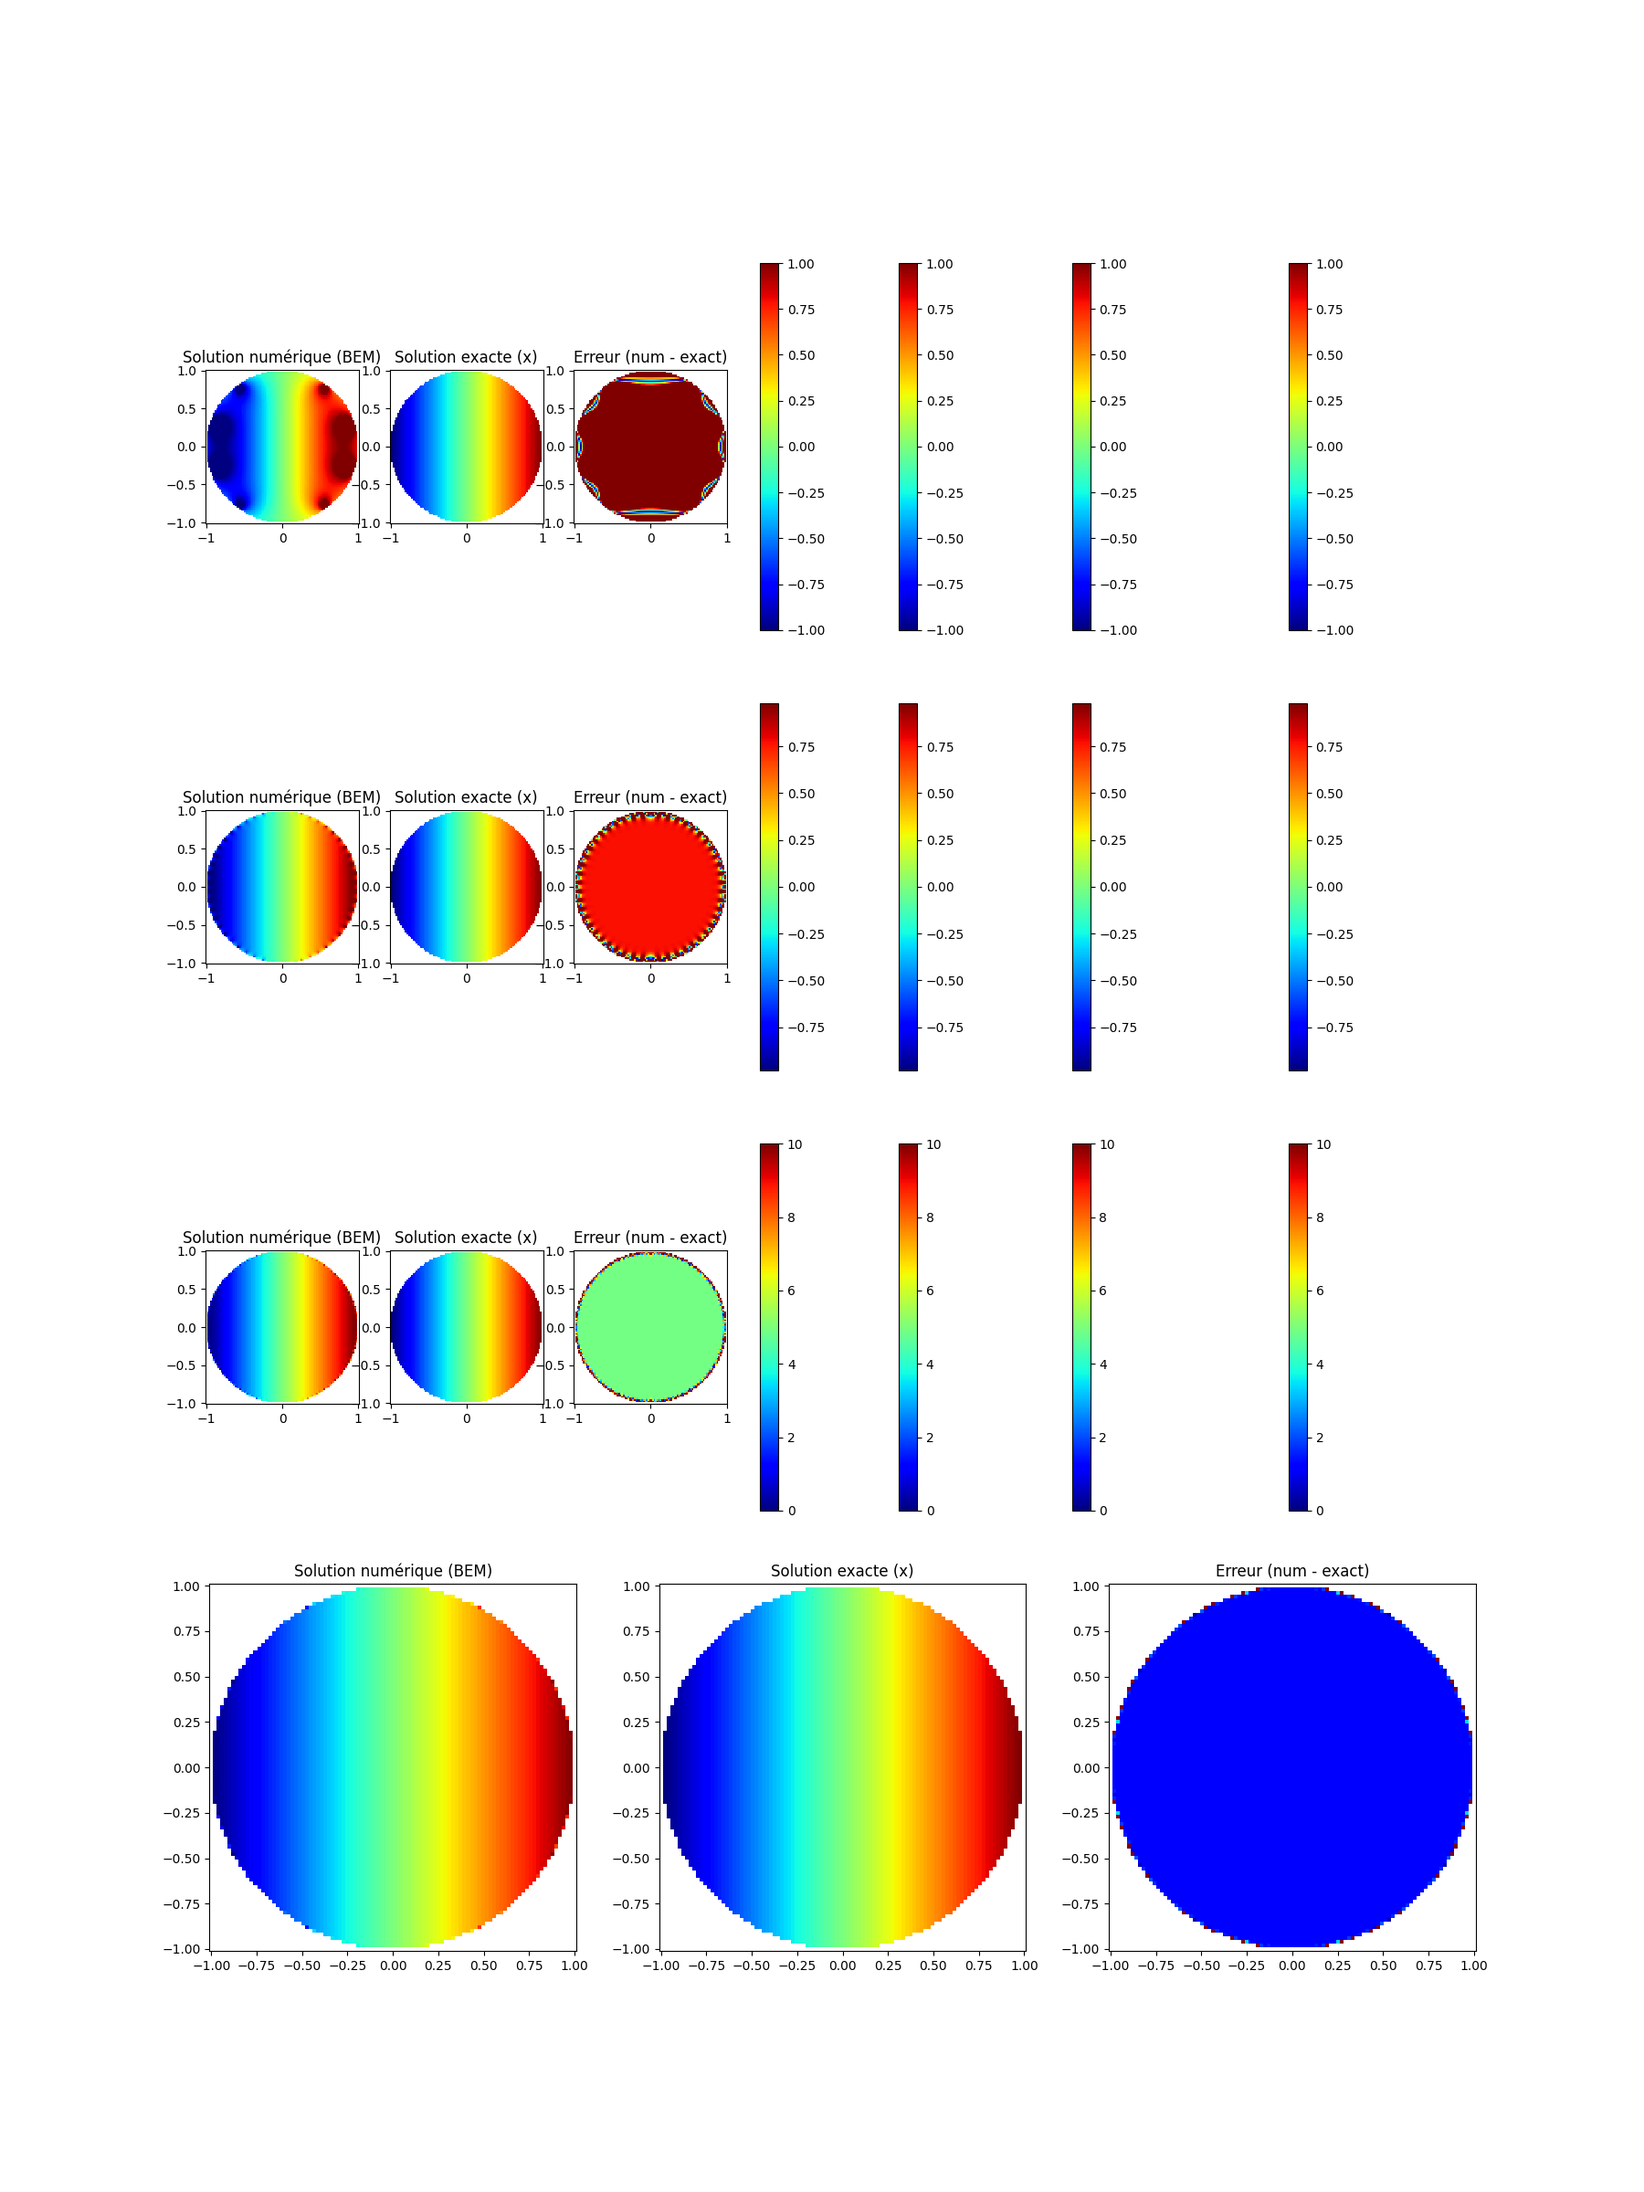
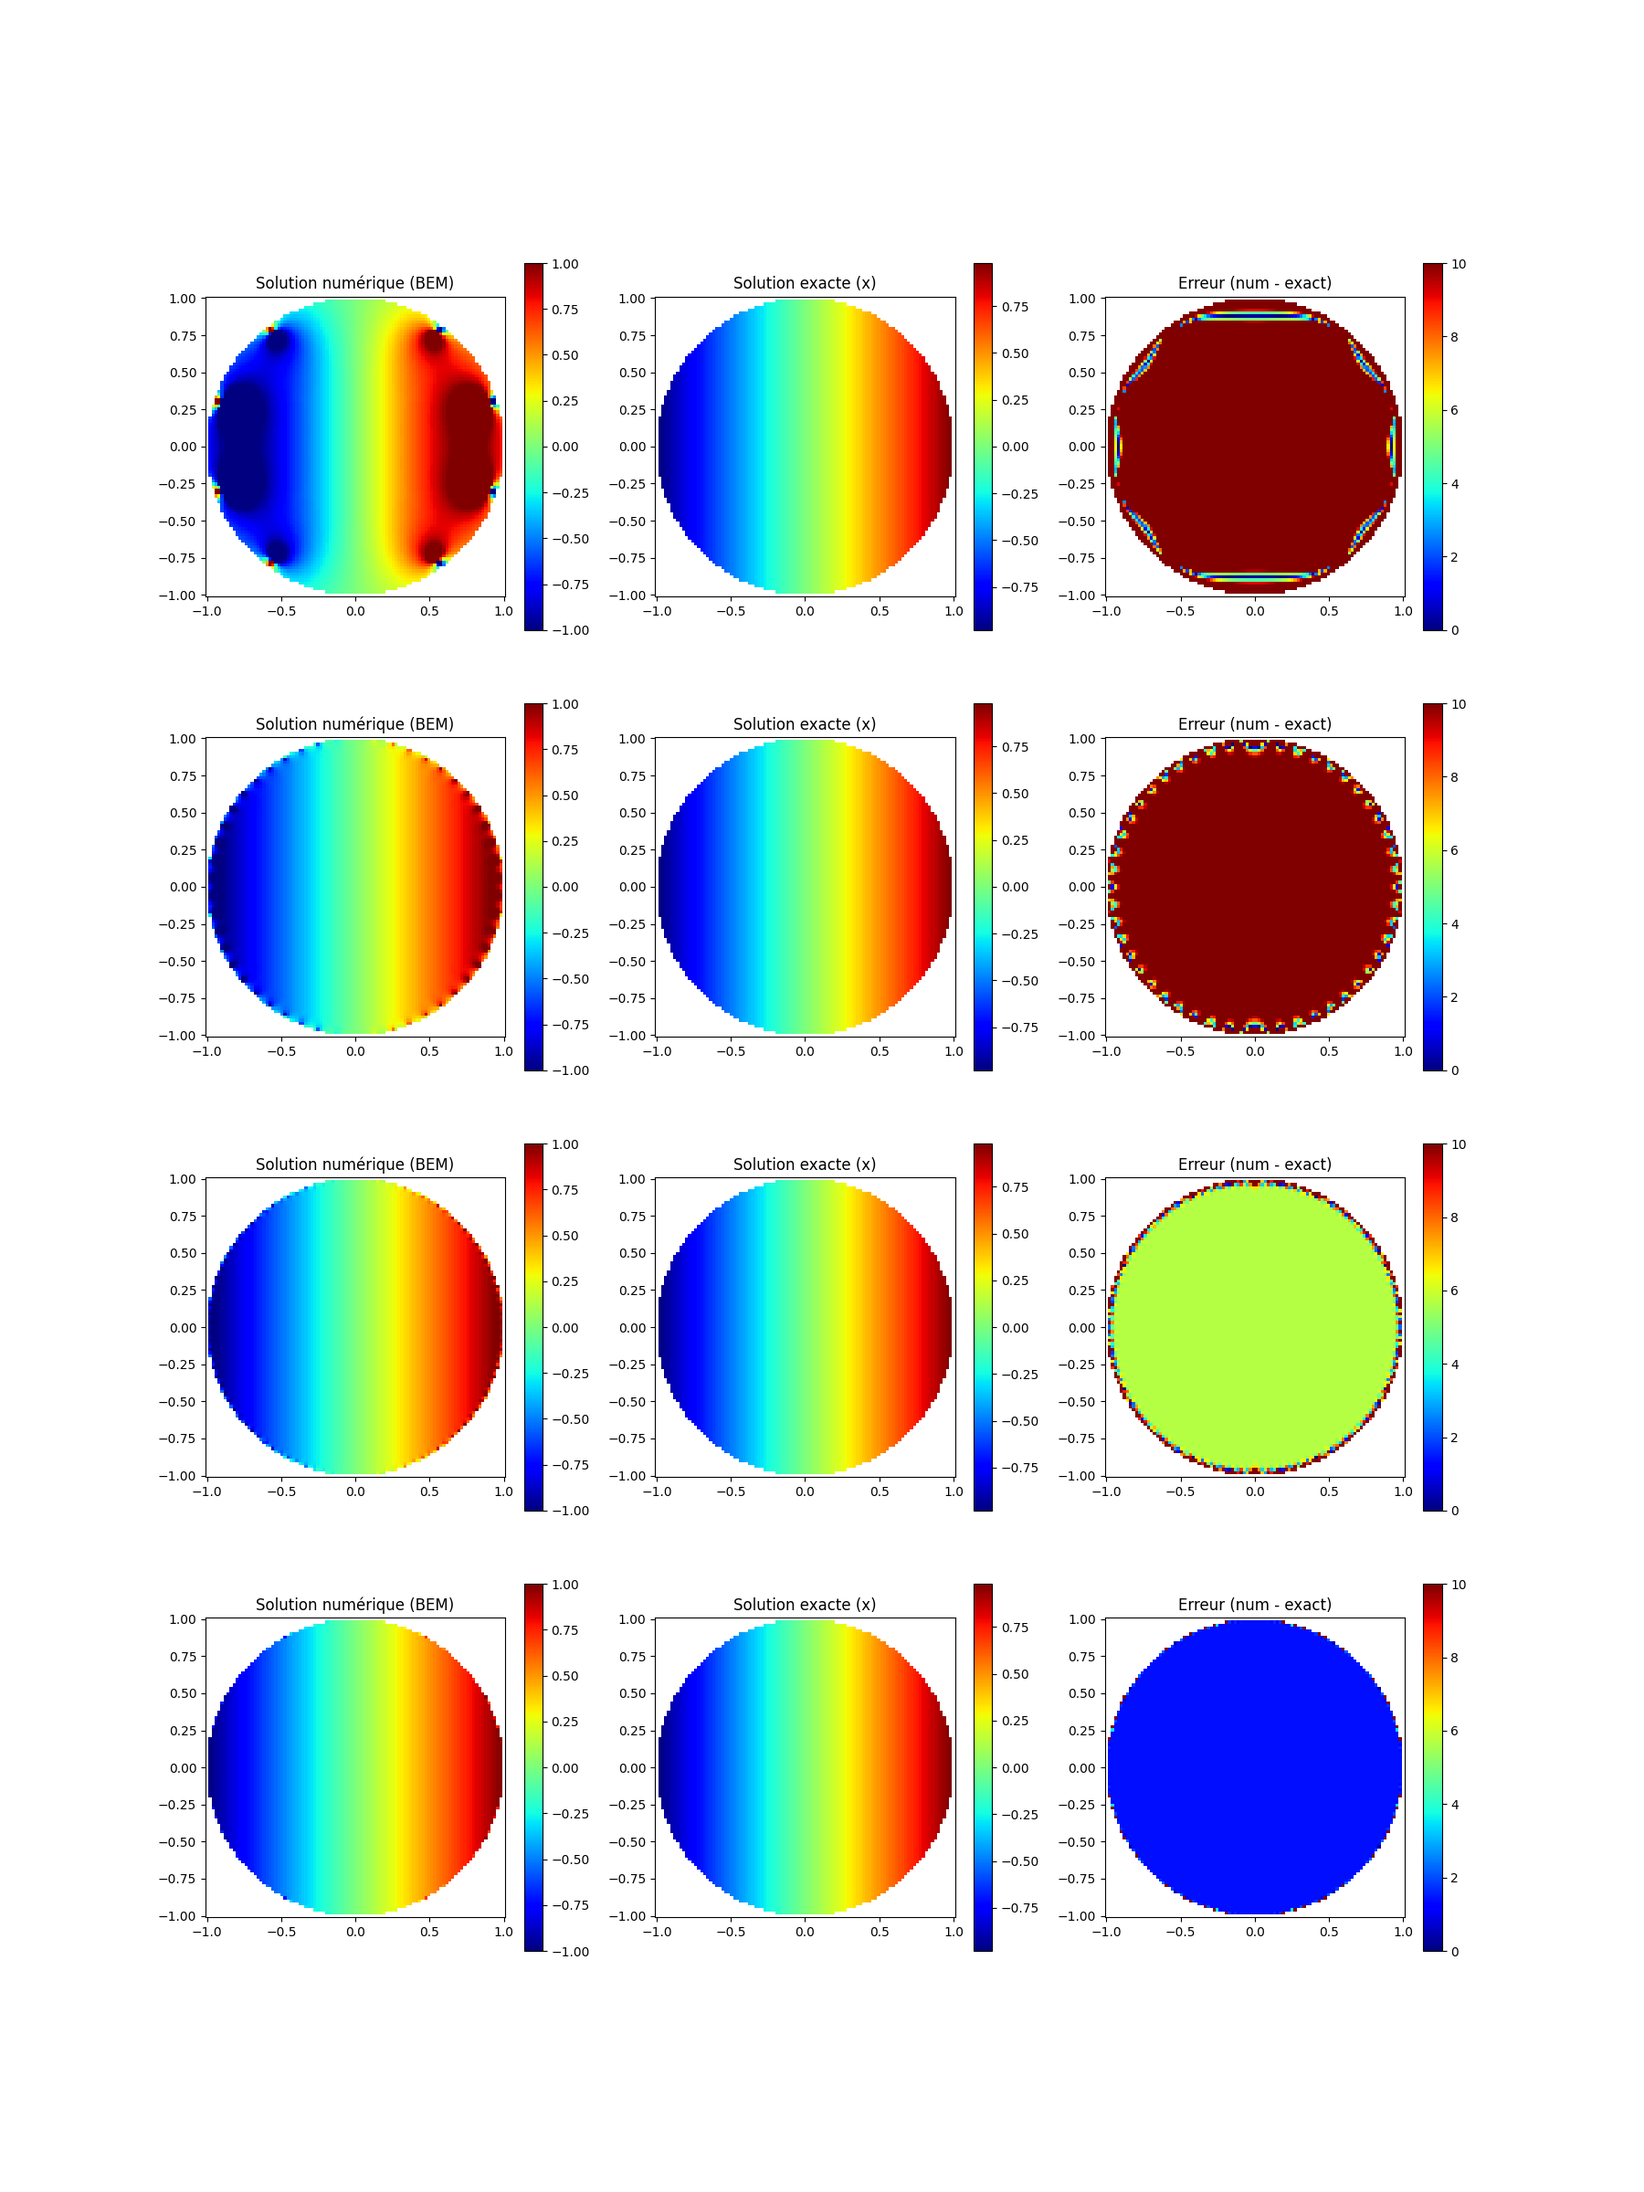
New test cases: * ring in linear potential * square in linear potential

diff --git a/square/main.py b/square/main.py
@@ -74,33 +74,34 @@ def gauss_legendre_1D(n):
 
     return x, w
 
-def build_circle_geometry(N, radius):
+def build_geometry(N, a):
     """
     Construit un maillage de N points sur le cercle de rayon 'radius'.
     Retourne:
-      coords : tableau (N,2) contenant les coordonnées (x_j,y_j) du bord
-      normals: tableau (N,2) contenant la normale sortante en (x_j,y_j)
+      elems : tableau (N,6) contenant les coordonnées (x_1,y_1,x_2,y_2,x_m,y_m)
+      normals: tableau (N,2) contenant la normale sortante en (x_m,y_m)
       ds     : la longueur d'arc (constante) d'un segment (élément)
     """
     elems = np.zeros((N, 6))
     normals = np.zeros((N, 2))
 
-    dtheta = 2.0*np.pi/N
-    for j in range(N):
-        theta1 = dtheta*j
-        theta2 = dtheta*(j+1)
-        xj = radius * np.cos(theta1)
-        yj = radius * np.sin(theta1)
-        xjp1 = radius * np.cos(theta2)
-        yjp1 = radius * np.sin(theta2)
-        xm = 0.5*(xj + xjp1)
-        ym = 0.5*(yj + yjp1)
-        elems[j,:] = [xj, yj, xjp1, yjp1, xm, ym]
+    Na = int(N/4)
+    dN = a/Na
+
+    for j in range(Na):
+        # bord bas
+        elems[j+0*Na,:] = [dN*j, 0.0, dN*(j+1), 0.0, (dN*j+dN*(j+1))*0.5, 0.0]
+        elems[j+1*Na,:] = [1.0, dN*j, 1.0, dN*(j+1), 1.0, (dN*j+dN*(j+1))*0.5]
+        elems[j+2*Na,:] = [1.0-dN*j, 1.0, 1.0-dN*(j+1), 1.0, 1.0-(dN*j+dN*(j+1))*0.5, 1.0]
+        elems[j+3*Na,:] = [0.0, 1.0-dN*j, 0.0, 1.0-dN*(j+1), 0.0, 1.0-(dN*j+dN*(j+1))*0.5]
         # Normale sortante (pour un cercle centré à l'origine)
-        normals[j,:] = [np.cos(theta1*0.5+theta2*0.5), np.sin(theta1*0.5+theta2*0.5)]
+        normals[j+0*Na,:] = [0.0, -1.0]
+        normals[j+1*Na,:] = [1.0, 0.0]
+        normals[j+2*Na,:] = [0.0, 1.0]
+        normals[j+3*Na,:] = [-1.0, 0.0]
 
     # Longueur d’arc approximative par élément
-    ds = radius * dtheta
+    ds = dN
 
     return elems, normals, ds
 
@@ -161,6 +162,8 @@ def build_matrices_gauss(elems, normals, gauss_order=8):
                 # Point d'intégration s(t)
                 s_t = x_m + 0.5*xi*vecAB   # vecteur 2D
 
+                # Normale entrante
+
                 # Valeurs de la fonction de Green et sa dérivée normale
                 g_val = G_2D(xm1, s_t)
                 dg_val = dGdn_2D(xm1, s_t, n_seg)
@@ -172,6 +175,11 @@ def build_matrices_gauss(elems, normals, gauss_order=8):
 
             G[j,k] = sum_g * (0.5 * Lk)
             H[j,k] = sum_h * (0.5 * Lk)
+
+            if j == k:
+                G[j,k] = 0.0
+                H[j,k] = 0.0
+                continue
 
     return G, H
 
@@ -188,9 +196,9 @@ def solve_laplace_dirichlet_bem(N):
       phi_bd : la condition de Dirichlet imposée (phi_j = x_j)
     """
     # 1) Géométrie
-    rad = 1.0
+    a = 1.0
 
-    elems, normals, ds = build_circle_geometry(N, rad)
+    elems, normals, ds = build_geometry(N, a)
 
     # 2) Matrices G et H
     start = time.process_time()
@@ -238,8 +246,8 @@ def compute_interior_solution(elems, normals, ds, phi_bd, q_bd, Nx=50, Ny=50):
        phi_interior: solution reconstruite (même shape), np.nan en dehors du disque
     """
     # Maillage régulier dans le carré [-1,1] x [-1,1]
-    x_vals = np.linspace(-1.0, 1.0, Nx)
-    y_vals = np.linspace(-1.0, 1.0, Ny)
+    x_vals = np.linspace(0., 1.0, Nx)
+    y_vals = np.linspace(0., 1.0, Ny)
     X, Y = np.meshgrid(x_vals, y_vals, indexing='xy')
 
     N = elems.shape[0]
@@ -250,23 +258,22 @@ def compute_interior_solution(elems, normals, ds, phi_bd, q_bd, Nx=50, Ny=50):
             xx = X[i,j]
             yy = Y[i,j]
             # On ne calcule que si (xx,yy) est à l'intérieur du cercle unité
-            if xx*xx + yy*yy <= 1.0:
-                x_pt = np.array([xx, yy])
+            x_pt = np.array([xx, yy])
 
-                # Représentation intégrale
-                s1 = 0.0  # correspond à l'intégrale de dGdn_2D * phi_bd
-                s2 = 0.0  # correspond à l'intégrale de G_2D * q_bd
-                for k in range(N):
-                    x_k = elems[k,4:6]
-                    n_k = normals[k,:]
-                    # intégration élément constant
-                    g_val = G_2D(x_pt, x_k)
-                    dgdn_val = dGdn_2D(x_pt, x_k, n_k)
+            # Représentation intégrale
+            s1 = 0.0  # correspond à l'intégrale de dGdn_2D * phi_bd
+            s2 = 0.0  # correspond à l'intégrale de G_2D * q_bd
+            for k in range(N):
+                x_k = elems[k,4:6]
+                n_k = normals[k,:]
+                # intégration élément constant
+                g_val = G_2D(x_pt, x_k)
+                dgdn_val = dGdn_2D(x_pt, x_k, n_k)
 
-                    s1 += dgdn_val * phi_bd[k]
-                    s2 += g_val    * q_bd[k]
+                s1 += dgdn_val * phi_bd[k]
+                s2 += g_val    * q_bd[k]
 
-                phi_interior[i,j] = (s1 - s2) * ds
+            phi_interior[i,j] = (s1 - s2) * ds
 
     return X, Y, phi_interior
 
@@ -305,13 +312,15 @@ if __name__ == "__main__":
     times = []
     fig, axes = plt.subplots(4, 3, figsize=(18,24))
     i = 0
-    for N in [10, 50, 100, 500]:
+    Ns = [10,50,100,200]
+    for N in Ns:
+        N4 = N*4
         start = time.process_time()
-        q_bd, elems, normals, ds, phi_bd = solve_laplace_dirichlet_bem(N)
+        q_bd, elems, normals, ds, phi_bd = solve_laplace_dirichlet_bem(N4)
         end = time.process_time()
         times.append(end - start)
-        linf, l2 = dphi_error_on_bc(q_bd, elems, N)
-        print(f"{N} elem erreur L1 sur le bord: {l2}")
+        linf, l2 = dphi_error_on_bc(q_bd, elems, N4)
+        print(f"{N4} elem erreur L1 sur le bord: {l2}")
         errs.append(l2)
 
         # calcul de l'érreur sur le bord
@@ -321,12 +330,12 @@ if __name__ == "__main__":
         start = time.process_time()
         X, Y, phi_num = compute_interior_solution(elems, normals, ds, phi_bd, q_bd, Nx, Ny)
         end = time.process_time()
-        print(f"{N} elem reconstruction time:", end - start)
+        print(f"{N4} elem reconstruction time:", end - start)
 
         # 3) Solution exacte: phi(x,y) = x
         #    On la stocke dans un tableau de même dimension, en mettant NaN en dehors
         phi_exact = np.full_like(phi_num, np.nan)
-        mask_in = (X**2 + Y**2 <= 1.0)
+        mask_in = (X**2 + Y**2 <= 2.0)
         phi_exact[mask_in] = X[mask_in]  # car phi_exact(x,y) = x
 
         # 4) Erreur
@@ -336,7 +345,7 @@ if __name__ == "__main__":
 
 
         # (a) Solution numérique
-        pcm1 = axes[i,0].pcolormesh(X, Y, phi_num, shading='auto', cmap='jet', vmin=-1, vmax=1)
+        pcm1 = axes[i,0].pcolormesh(X, Y, phi_num, shading='auto', cmap='jet', vmin=0, vmax=1)
         #pcm1 = axes[0].pcolormesh(X, Y, phi_num, shading='auto', cmap='jet')
         axes[i,0].set_title("Solution numérique (BEM)")
         axes[i,0].set_aspect('equal')
@@ -360,14 +369,14 @@ if __name__ == "__main__":
     plt.savefig(f"laplace_bem_solutions.png")
 
     fig, ax = plt.subplots(1, 2, figsize=(18,6))
-    ax[0].plot([10, 50, 100, 500], errs, label="L1 dphi_dn", marker='x')
+    ax[0].plot(Ns, errs, label="L1 dphi_dn", marker='x')
     ax[0].set_xscale('log')
     ax[0].set_yscale('log')
     ax[0].set_xlabel("N")
     ax[0].set_ylabel("Erreur L1")
     ax[0].legend()
 
-    ax[1].plot([10, 50, 100, 500], times, label="temps de calcul")
+    ax[1].plot(Ns, times, label="temps de calcul")
     ax[1].set_xscale('log')
     ax[1].set_yscale('log')
     ax[1].set_xlabel("N")

diff --git a/ring/main.py b/ring/main.py
@@ -74,7 +74,7 @@ def gauss_legendre_1D(n):
 
     return x, w
 
-def build_circle_geometry(N, radius):
+def build_geometry(N, radius):
     """
     Construit un maillage de N points sur le cercle de rayon 'radius'.
     Retourne:
@@ -86,6 +86,8 @@ def build_circle_geometry(N, radius):
     normals = np.zeros((N, 2))
 
     dtheta = 2.0*np.pi/N
+
+    #build first circle
     for j in range(N):
         theta1 = dtheta*j
         theta2 = dtheta*(j+1)
@@ -98,6 +100,22 @@ def build_circle_geometry(N, radius):
         elems[j,:] = [xj, yj, xjp1, yjp1, xm, ym]
         # Normale sortante (pour un cercle centré à l'origine)
         normals[j,:] = [np.cos(theta1*0.5+theta2*0.5), np.sin(theta1*0.5+theta2*0.5)]
+
+    #build first circle
+    # radius2 = radius*0.5
+    # for i in range(N):
+    #     j = i + N
+    #     theta1 = dtheta*j
+    #     theta2 = dtheta*(j+1)
+    #     xj = radius2 * np.cos(theta1)
+    #     yj = radius2 * np.sin(theta1)
+    #     xjp1 = radius2 * np.cos(theta2)
+    #     yjp1 = radius2 * np.sin(theta2)
+    #     xm = 0.5*(xj + xjp1)
+    #     ym = 0.5*(yj + yjp1)
+    #     elems[j,:] = [xj, yj, xjp1, yjp1, xm, ym]
+    #     # Normale entrante
+    #     normals[j,:] = [-np.cos(theta1*0.5+theta2*0.5), -np.sin(theta1*0.5+theta2*0.5)]
 
     # Longueur d’arc approximative par élément
     ds = radius * dtheta
@@ -190,16 +208,18 @@ def solve_laplace_dirichlet_bem(N):
     # 1) Géométrie
     rad = 1.0
 
-    elems, normals, ds = build_circle_geometry(N, rad)
+    elems, normals, ds = build_geometry(N, rad)
 
     # 2) Matrices G et H
     start = time.process_time()
     G, H = build_matrices_gauss(elems, normals, gauss_order=8)
     end = time.process_time()
-    print(f"{N} elem build time:", end - start)
+    print(f"{N*2} elem build time:", end - start)
 
     # 3) Condition Dirichlet: phi_j = x_j
     phi_bd = elems[:,4]  # x_j
+    #phi_bd[:] = 1.0
+    #print(f'phi_bd shape, x: {phi_bd.shape}, {phi_bd}')
 
     # 4) Assemblage du système:
     #    0.5*phi_j = sum_k( H[j,k]*phi_k ) - sum_k( G[j,k]*q_k )
@@ -212,7 +232,7 @@ def solve_laplace_dirichlet_bem(N):
 
     q = np.matmul(Ginv, RHS)
     end = time.process_time()
-    print(f"{N} elem solving time:", end - start)
+    print(f"{N*2} elem solving time:", end - start)
 
     return q, elems, normals, ds, phi_bd
 
@@ -250,7 +270,7 @@ def compute_interior_solution(elems, normals, ds, phi_bd, q_bd, Nx=50, Ny=50):
             xx = X[i,j]
             yy = Y[i,j]
             # On ne calcule que si (xx,yy) est à l'intérieur du cercle unité
-            if xx*xx + yy*yy <= 1.0:
+            if (xx*xx + yy*yy <= 1.0 and xx*xx + yy*yy >= 0.25):
                 x_pt = np.array([xx, yy])
 
                 # Représentation intégrale
@@ -270,7 +290,7 @@ def compute_interior_solution(elems, normals, ds, phi_bd, q_bd, Nx=50, Ny=50):
 
     return X, Y, phi_interior
 
-def dphi_error_on_bc(q, elems, N):
+def dphi_error_on_bc(q, elems):
     """
     Calcul de l'erreur de la dérivée normale sur le bord.
     q : dérivée normale numérique (solution BEM)
@@ -279,19 +299,19 @@ def dphi_error_on_bc(q, elems, N):
     """
     linf = 0.0
     l2 = 0.0
-    for j in range(N):
+    for j in range(elems.shape[0]):
         x_j = elems[j,0:2]
         x_jp1 = elems[j,2:4]
         vecAB = (x_jp1 - x_j)
         lj = np.linalg.norm(vecAB)
         n_x_m = [-vecAB[1]/lj, vecAB[0]/lj]  # normale au segment dirigée vers l'intérieur
         q_num = q[j]
-        dphi_exact = [1.0,0.0]
+        dphi_exact = [0.0,0.0]
         q_exact = (dphi_exact[0]*n_x_m[0]+dphi_exact[1]*n_x_m[1])
         linf = np.max([linf,(q_num - q_exact)])
         l2 += (q_num - q_exact)**2
 
-    return linf,np.sqrt(l2)/np.linalg.norm(dphi_exact)/N
+    return linf,np.sqrt(l2)/N
 
 
 ##############################################################################
@@ -305,12 +325,14 @@ if __name__ == "__main__":
     times = []
     fig, axes = plt.subplots(4, 3, figsize=(18,24))
     i = 0
-    for N in [10, 50, 100, 500]:
+    Nelem = [10, 50, 100, 500]
+    for N in Nelem:
+        N2 = N*2
         start = time.process_time()
         q_bd, elems, normals, ds, phi_bd = solve_laplace_dirichlet_bem(N)
         end = time.process_time()
         times.append(end - start)
-        linf, l2 = dphi_error_on_bc(q_bd, elems, N)
+        linf, l2 = dphi_error_on_bc(q_bd, elems)
         print(f"{N} elem erreur L1 sur le bord: {l2}")
         errs.append(l2)
 
@@ -326,8 +348,10 @@ if __name__ == "__main__":
         # 3) Solution exacte: phi(x,y) = x
         #    On la stocke dans un tableau de même dimension, en mettant NaN en dehors
         phi_exact = np.full_like(phi_num, np.nan)
-        mask_in = (X**2 + Y**2 <= 1.0)
-        phi_exact[mask_in] = X[mask_in]  # car phi_exact(x,y) = x
+        mask_1 = (X**2 + Y**2 <= 1.0) 
+        mask_2 = (X**2 + Y**2 >= 0.25)
+        phi_exact[mask_1] = X[mask_1] # car phi_exact(x,y) = x
+        phi_exact[~mask_2] = np.nan
 
         # 4) Erreur
         error_map = np.abs(phi_num - phi_exact)/np.abs(phi_exact)
